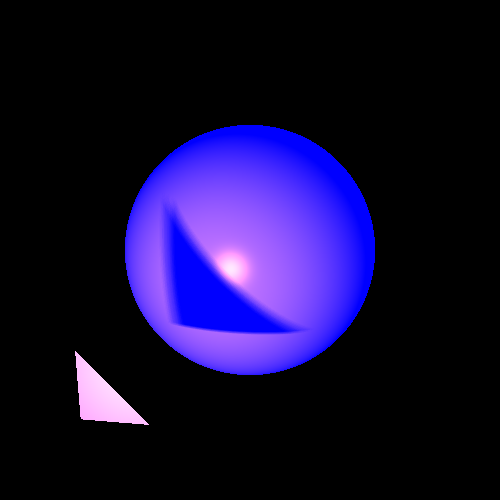
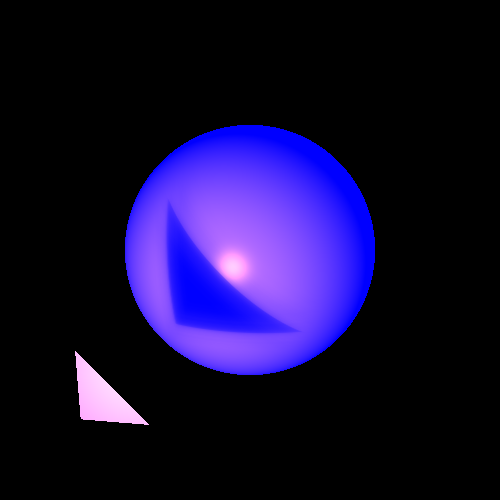
soft shadow complited

Changed region(s): [[0.33, 0.42, 0.6, 0.69]]

diff --git a/src/lighting/PointLight.java b/src/lighting/PointLight.java
@@ -18,12 +18,13 @@ public class PointLight extends Light implements LightSource {
     /**
      * The size of the plane that I generate vectors from (for soft shadow).
      */
-    public double SIZE = 5;
-
+    public double SIZE = 4;
+    private final Random rand = new Random();
     private Point position;
     private double Kc = 1;
     private double Kl = 0;
     private double Kq = 0;
+    private List<Point> points = null;
 
     /**
      * Constructs a PointLight object with the given intensity and position.
@@ -96,15 +97,17 @@ public class PointLight extends Light implements LightSource {
         return point.distance(position);
     }
 
-    @Override
+  /*  @Override
     public List<Vector> getLightVectors(Point p) {
         List<Vector> vectors = new LinkedList();
         //grid of vectors around the light
+        for (double z = -SIZE; z < SIZE; z ++)
+        {
         for (double i = -SIZE; i < SIZE; i ++) {
             for (double j = -SIZE; j < SIZE; j ++) {
-                if (i != 0 && j != 0) {
+                if (i != 0 && j != 0 && z!=0) {
                     //create a point on the grid
-                    Point point = position.add(new Vector(i, 0.1d, j));
+                    Point point = position.add(new Vector(i, z, j));
                     if (point.equals(position)) {
                         //if the point is the same as the light position,
                         // add the vector from the point to the light
@@ -124,8 +127,49 @@ public class PointLight extends Light implements LightSource {
                     }
                 }
             }
-        }
+        }}
         vectors.add(getL(p));
         return vectors;
+    }*/
+    /**
+     * Get the array of points that will cast shadow rays
+     *
+     * @return The array of point
+     */
+    public List<Point> getPoints(Point p, int numOfPoints) {
+        if (SIZE == 0) return null;
+        if (this.points != null)
+            return this.points;
+        Point[] points = new Point[numOfPoints];
+        Vector to = p.subtract(position).normalize();
+        Vector vX = to.getOrthogonal().normalize();
+        Vector vY = vX.crossProduct(to).normalize();
+        double x, y, radius;
+        for (int i = 0; i < numOfPoints; i += 4) {
+            radius = rand.nextDouble(SIZE) + 0.1;
+            x = rand.nextDouble(radius) + 0.1;
+            y = radius * radius - x * x;//getCircleScale(x, radius);
+            for (int j = 0; j < 4; j++) {
+                //in this part we mirror the point we got 4 times, to each quarter of the grid
+                points[i + j]= position.add(vX.scale(j % 2 == 0 ? x : -x)).add(vY.scale((j <= 1 ? -y : y)));
+            }
+        }
+        List<Point> np = new LinkedList<>();
+        for (int i = 0; i<points.length; i++){
+            np.add(points[i]);
+        }
+        this.points = np;
+        return np;
+    }
+    @Override
+    public List<Vector> getLightVectors(Point p) {
+        List<Vector> lstVec = new LinkedList<>();
+        if(points == null){
+            getPoints(p, 1000);
+        }
+        for (var po: points) {
+            lstVec.add(p.subtract(po).normalize());
+        }
+        return lstVec;
     }
 }

diff --git a/unitTests/renderer/ReflectionRefractionTests.java b/unitTests/renderer/ReflectionRefractionTests.java
@@ -102,7 +102,7 @@ public class ReflectionRefractionTests {
 
         scene.lights.add(new SpotLight(new Color(700, 400, 400), new Point(60, 50, 0), new Vector(0, 0, -1)) //
                 .setKl(4E-5).setKq(2E-7));
-        ImageWriter imageWriter = new ImageWriter("refractionShadow", 600, 600);
+        ImageWriter imageWriter = new ImageWriter("refractionShadow-soft shadow version", 600, 600);
         camera.setImageWriter(imageWriter) //
                 .setRayTracer(new RayTracerBasic(scene)) //
                 .renderImage() //
